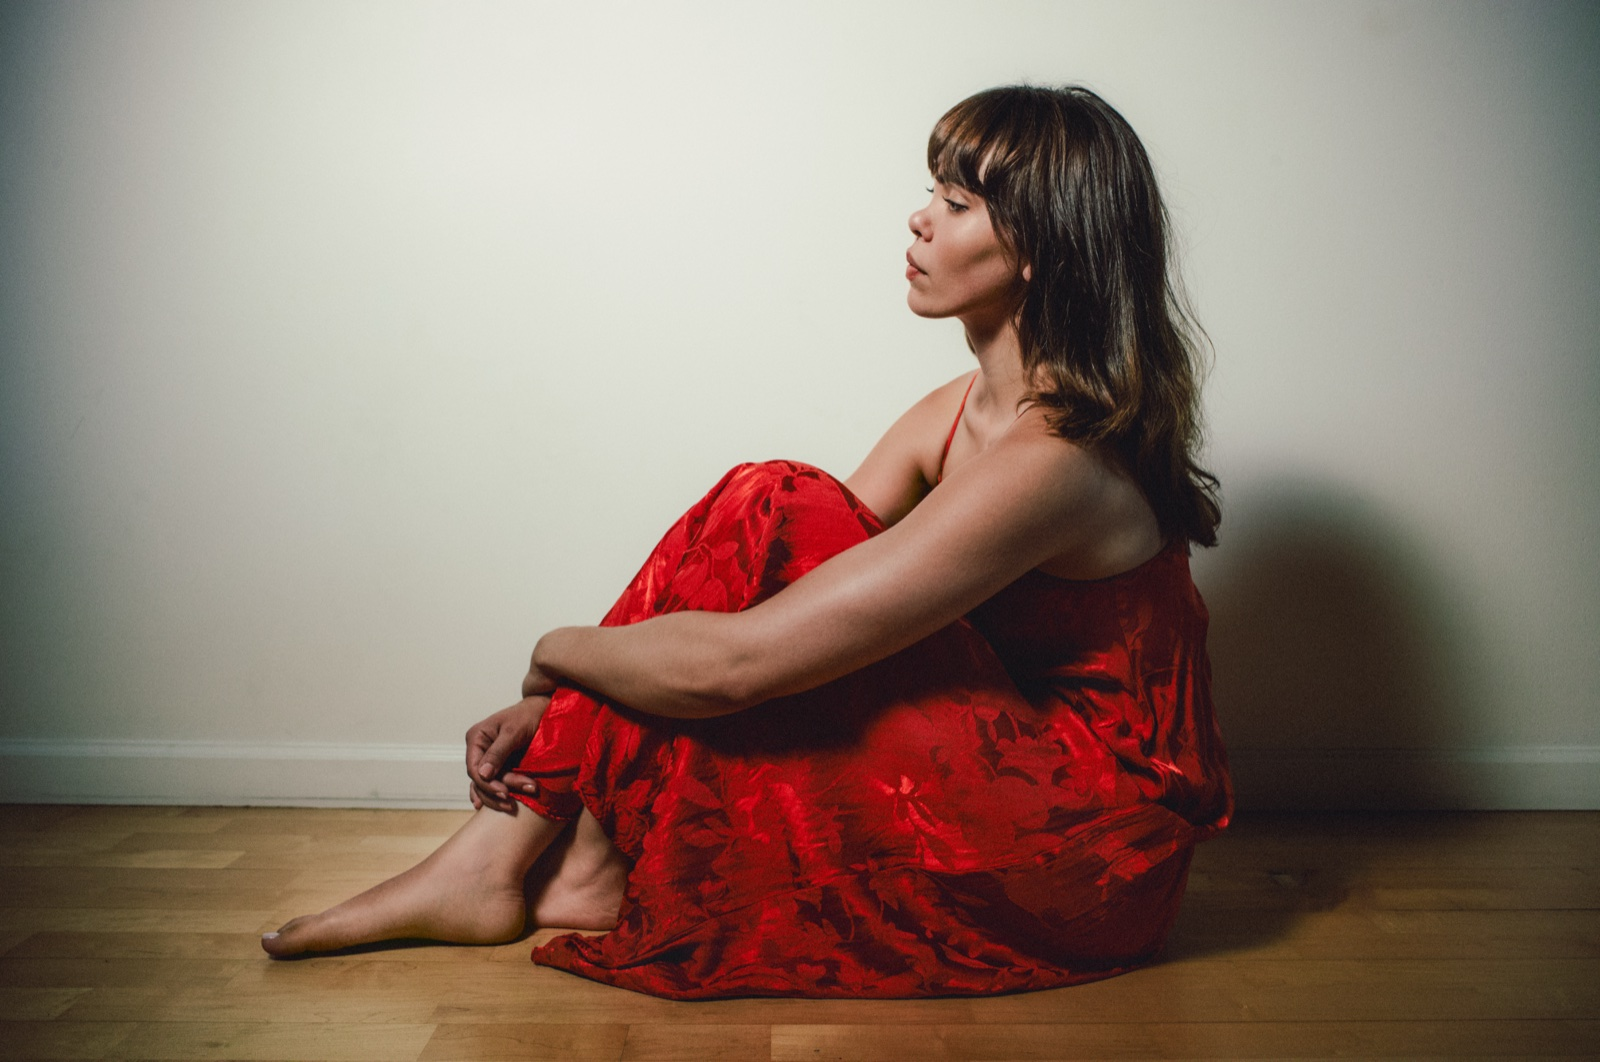
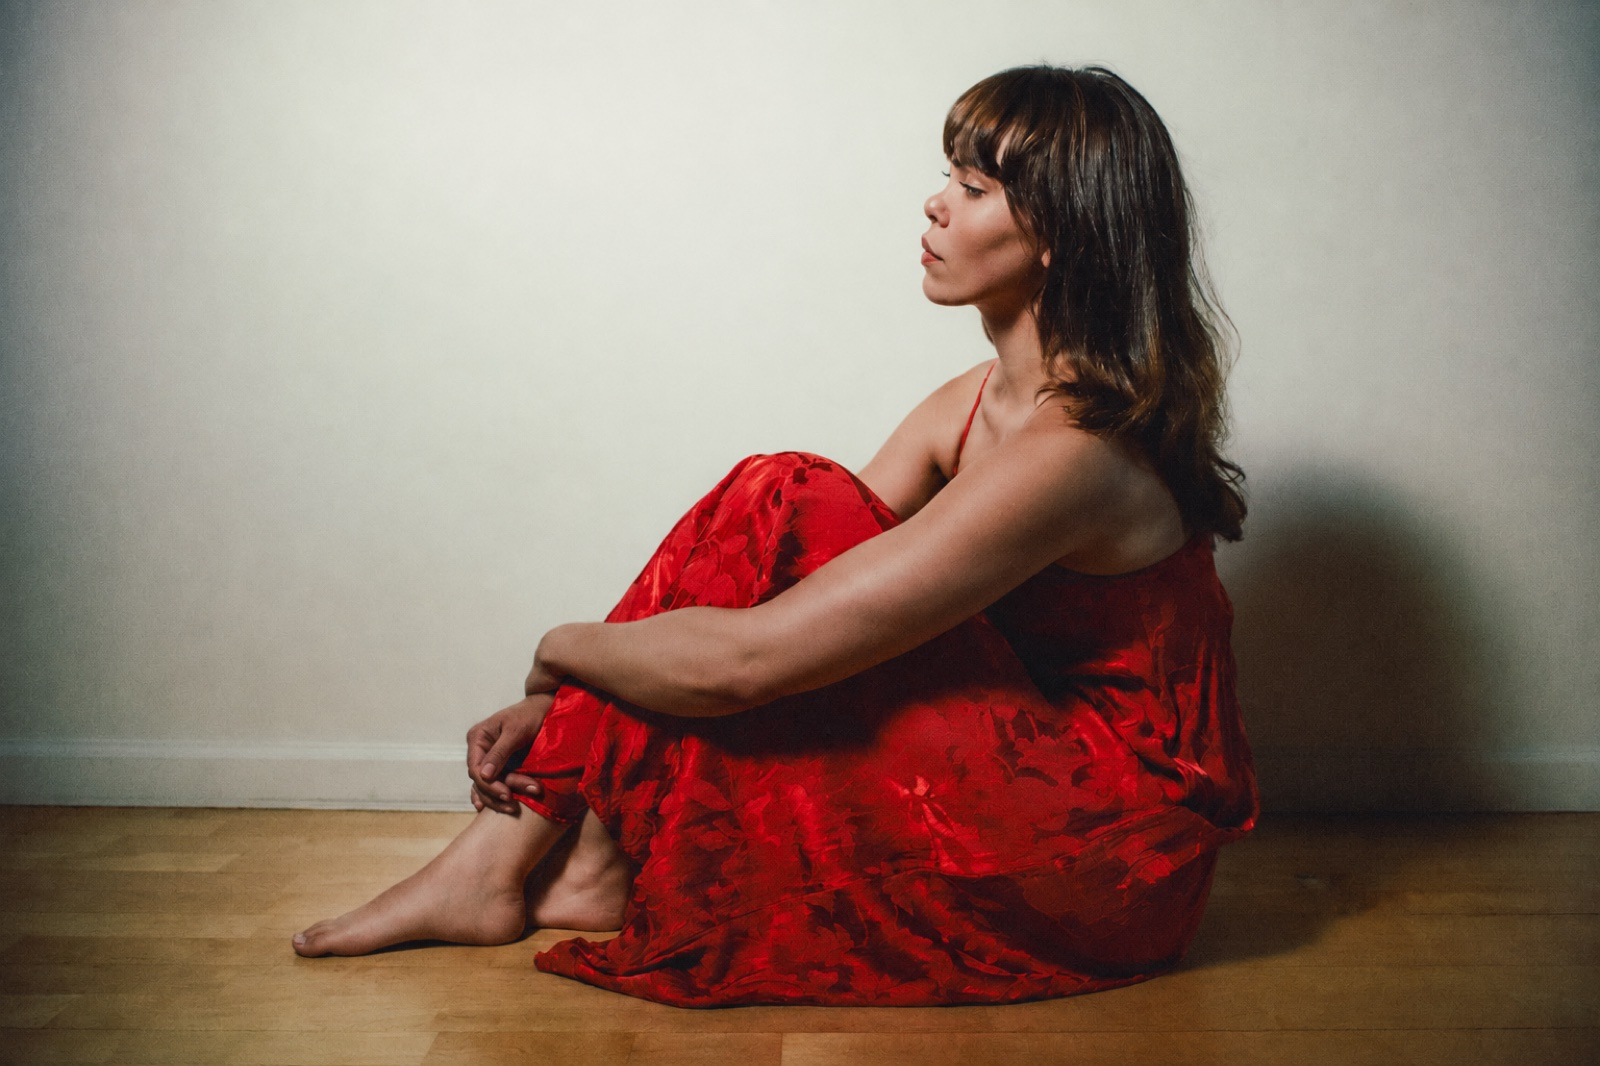
replace red dress photo with new favorite frame

diff --git a/modeling.html b/modeling.html
@@ -65,7 +65,7 @@
         <img src="model-10.jpg" alt="Black and white portrait in a floral silk slip, looking to the left" class="modeling__photo" loading="lazy" width="1600" height="1361">
         <img src="model-9.jpg" alt="Seated on a hardwood floor in a white tank and jeans, looking at the camera" class="modeling__photo" loading="lazy" width="1167" height="1600">
         <img src="model-2.jpg" alt="Studio side profile in a white ribbed tank" class="modeling__photo" loading="lazy" width="1062" height="1600">
-        <img src="model-5.jpg" alt="Seated on a hardwood floor in a red silk dress, side profile" class="modeling__photo" loading="lazy" width="1600" height="1062">
+        <img src="model-5.jpg" alt="Seated on a hardwood floor in a red silk dress, side profile" class="modeling__photo" loading="lazy" width="1600" height="1066">
         <img src="model-3.jpg" alt="Studio portrait in a black athletic set, arms crossed" class="modeling__photo" loading="lazy" width="1062" height="1600">
         <img src="model-4.jpg" alt="Cinematic side profile lit from a doorway" class="modeling__photo" loading="lazy" width="1600" height="1062">
         <img src="model-1.jpg" alt="Candid portrait in a brown wide-brim hat and red tank" class="modeling__photo" loading="lazy" width="1600" height="1200">
